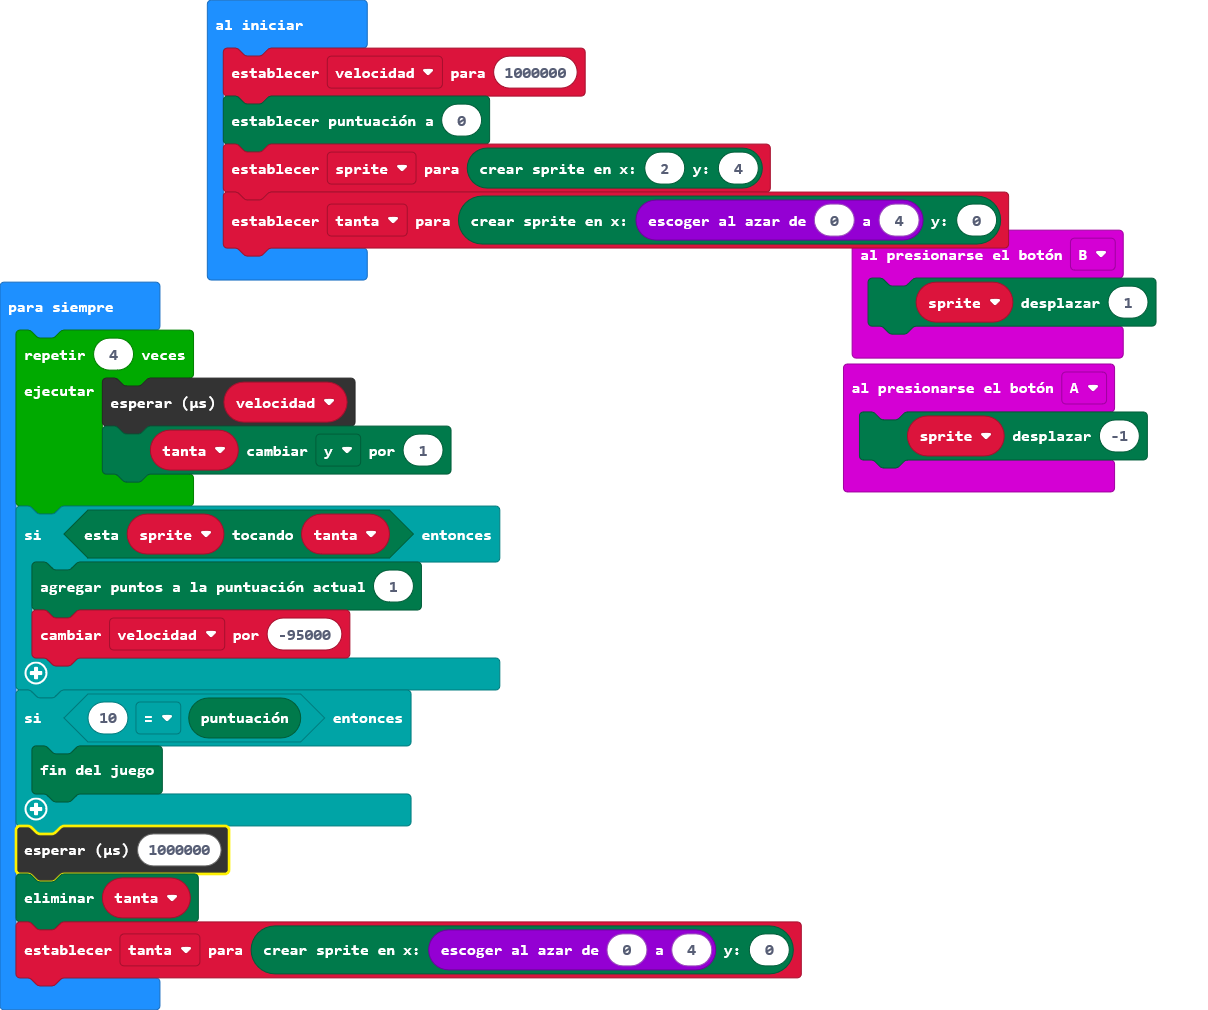
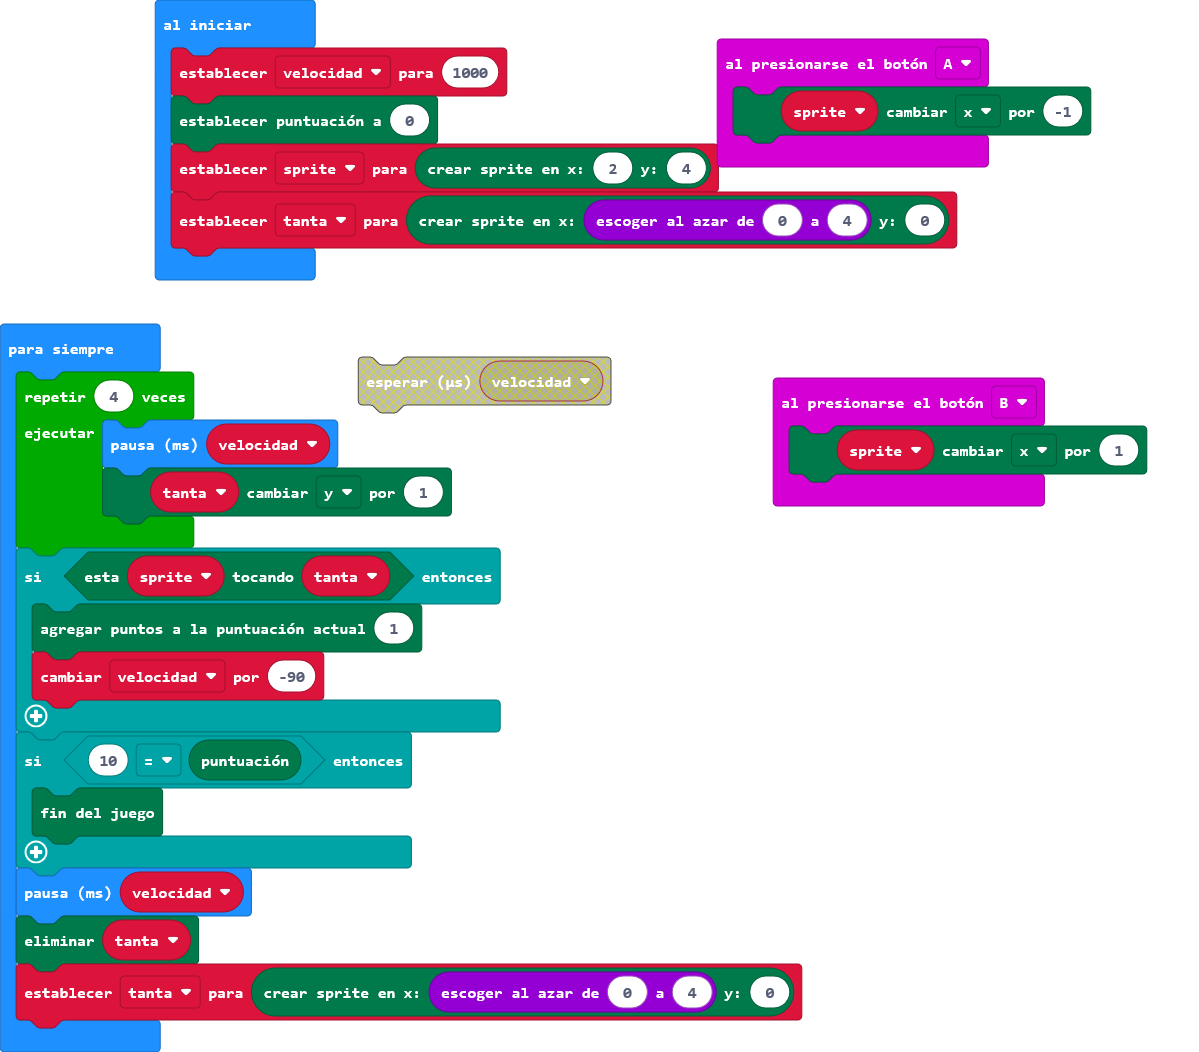
Actualizar main.blocks, main.ts

Changed region(s): [[0.0, 0.0, 0.9566, 0.9822]]

diff --git a/main.ts b/main.ts
@@ -1,27 +1,27 @@
 input.onButtonPressed(Button.A, function () {
-    sprite.move(-1)
+    sprite.change(LedSpriteProperty.X, -1)
 })
 input.onButtonPressed(Button.B, function () {
-    sprite.move(1)
+    sprite.change(LedSpriteProperty.X, 1)
 })
 let sprite: game.LedSprite = null
-let velocidad = 1000000
+let velocidad = 1000
 game.setScore(0)
 sprite = game.createSprite(2, 4)
 let tanta = game.createSprite(randint(0, 4), 0)
 basic.forever(function () {
     for (let index = 0; index < 4; index++) {
-        control.waitMicros(velocidad)
+        basic.pause(velocidad)
         tanta.change(LedSpriteProperty.Y, 1)
     }
     if (sprite.isTouching(tanta)) {
         game.addScore(1)
-        velocidad += -95000
+        velocidad += -90
     }
     if (10 == game.score()) {
         game.gameOver()
     }
-    control.waitMicros(1000000)
+    basic.pause(velocidad)
     tanta.delete()
     tanta = game.createSprite(randint(0, 4), 0)
 })
